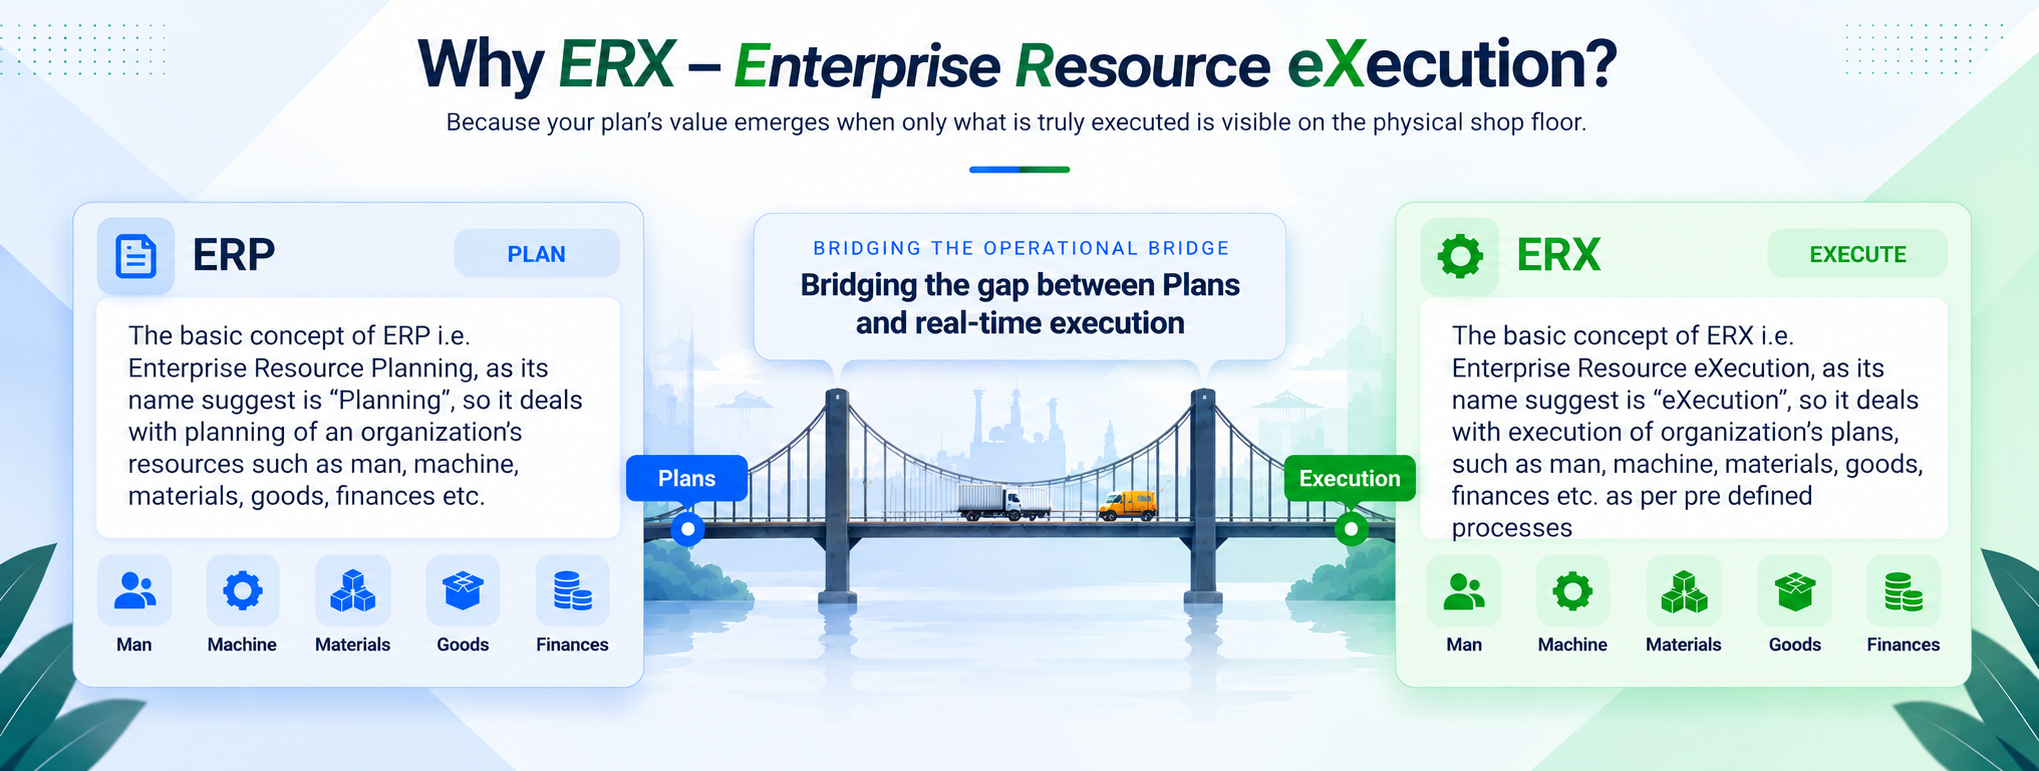
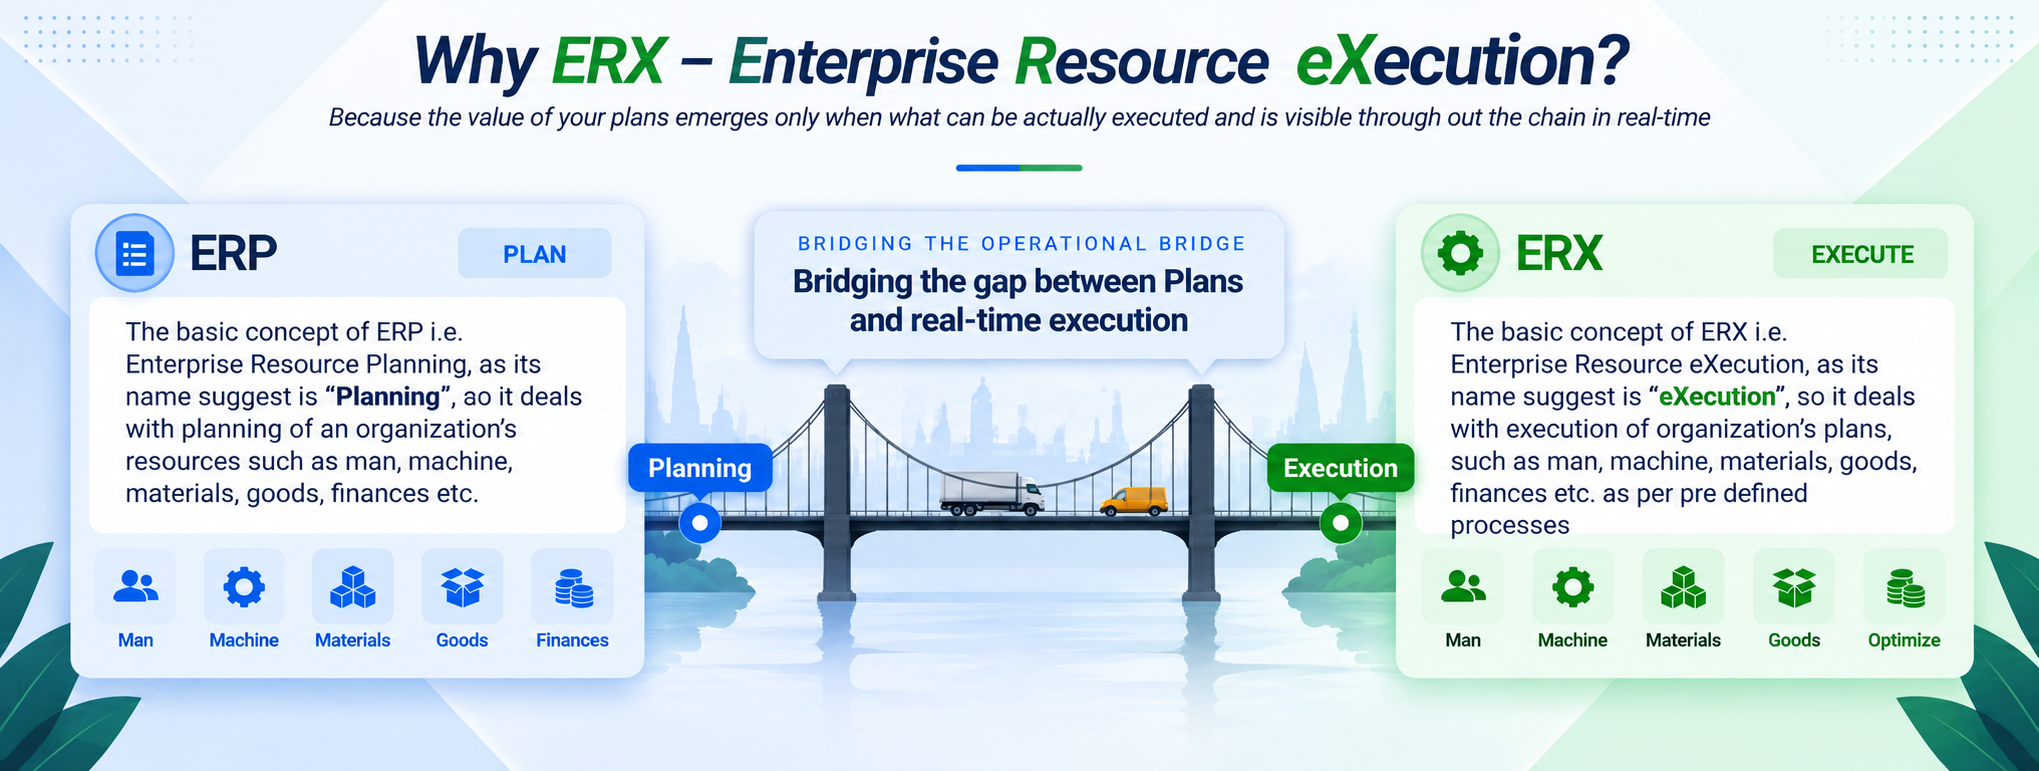
updated

diff --git a/src/components/ModulesArchitecture.tsx b/src/components/ModulesArchitecture.tsx
@@ -194,25 +194,43 @@ export const ModulesArchitecture: React.FC = () => {
                 
                 <svg className="w-full h-full absolute inset-0 pointer-events-none" viewBox="0 0 1240 570">
                   <defs>
-                    {/* Warm ambient background glow centered at top hub */}
-                    <radialGradient id="hubWarmGlow" cx="50%" cy="30%" r="50%">
-                      <stop offset="0%" stopColor="#f97316" stopOpacity={isDark ? "0.3" : "0.32"} />
-                      <stop offset="50%" stopColor="#fb923c" stopOpacity={isDark ? "0.1" : "0.12"} />
-                      <stop offset="100%" stopColor="#ea580c" stopOpacity="0" />
+                    <radialGradient id="hubWarmGlow" cx="50%" cy="15%" r="45%">
+                      <stop offset="0%" stopColor="#6366f1" stopOpacity={isDark ? "0.25" : "0.18"} />
+                      <stop offset="60%" stopColor="#8b5cf6" stopOpacity={isDark ? "0.08" : "0.06"} />
+                      <stop offset="100%" stopColor="#8b5cf6" stopOpacity="0" />
                     </radialGradient>
-
-                    {/* Filter drop-shadow for cards */}
+                    <linearGradient id="stageLabel1" x1="0" y1="0" x2="1" y2="0">
+                      <stop offset="0%" stopColor="#8b5cf6" /><stop offset="100%" stopColor="#6366f1" />
+                    </linearGradient>
+                    <linearGradient id="stageLabel2" x1="0" y1="0" x2="1" y2="0">
+                      <stop offset="0%" stopColor="#3b82f6" /><stop offset="100%" stopColor="#06b6d4" />
+                    </linearGradient>
+                    <linearGradient id="stageLabel3" x1="0" y1="0" x2="1" y2="0">
+                      <stop offset="0%" stopColor="#f97316" /><stop offset="100%" stopColor="#eab308" />
+                    </linearGradient>
+                    <linearGradient id="stageLabel4" x1="0" y1="0" x2="1" y2="0">
+                      <stop offset="0%" stopColor="#ef4444" /><stop offset="100%" stopColor="#8b5cf6" />
+                    </linearGradient>
                     <filter id="cardShadow" x="-10%" y="-10%" width="120%" height="120%">
-                      <feDropShadow dx="0" dy="4" stdDeviation="6" floodOpacity={isDark ? "0.4" : "0.08"} />
+                      <feDropShadow dx="0" dy="3" stdDeviation="5" floodOpacity={isDark ? "0.35" : "0.07"} />
                     </filter>
                   </defs>
 
-                  {/* 1. Ambient Background Halo around Hub */}
-                  <ellipse cx={hubCenter.x} cy={hubCenter.y} rx="340" ry="180" fill="url(#hubWarmGlow)" />
+                  {/* Ambient glow */}
+                  <ellipse cx={hubCenter.x} cy={hubCenter.y} rx="380" ry="160" fill="url(#hubWarmGlow)" />
 
-                  {/* 2. Concentric Radiating Rings around Hub */}
-                  <circle cx={hubCenter.x} cy={hubCenter.y} r="70" fill="none" stroke="#f97316" strokeOpacity="0.35" strokeWidth="1.5" strokeDasharray="4 6" />
-                  <circle cx={hubCenter.x} cy={hubCenter.y} r="120" fill="none" stroke="#fb923c" strokeOpacity="0.2" strokeWidth="1" strokeDasharray="3 7" />
+                  {/* Stage row pills on left */}
+                  {[
+                    { y: 150, label: 'STAGE 1', grad: 'url(#stageLabel1)' },
+                    { y: 255, label: 'STAGE 2', grad: 'url(#stageLabel2)' },
+                    { y: 360, label: 'STAGE 3', grad: 'url(#stageLabel3)' },
+                    { y: 465, label: 'STAGE 4', grad: 'url(#stageLabel4)' },
+                  ].map(s => (
+                    <g key={s.label}>
+                      <rect x="8" y={s.y + 28} width="54" height="16" rx="8" fill={s.grad} opacity="0.85" />
+                      <text x="35" y={s.y + 39} textAnchor="middle" fontSize="7" fontWeight="800" fill="white" letterSpacing="1" fontFamily="sans-serif">{s.label}</text>
+                    </g>
+                  ))}
 
                   {/* 3. Curved Vertical Connector Lines: Top Hub to Stage 1 Nodes */}
                   {filteredTx.filter(n => n.row === 1).map((node) => {
@@ -372,40 +390,45 @@ export const ModulesArchitecture: React.FC = () => {
                   })}
                 </svg>
 
-                {/* 7. Top Central Orchestration Core Hub (Sarvosmi ERX™ RMSC Center) */}
+                {/* 7. Hub — Glassmorphism Pill */}
                 <div
                   style={{
-                    left: `${hubCenter.x - 130}px`,
-                    top: `${hubCenter.y - 42}px`,
-                    width: '260px',
-                    height: '84px'
+                    left: `${hubCenter.x - 150}px`,
+                    top: `${hubCenter.y - 38}px`,
+                    width: '300px',
+                    height: '76px',
+                    background: 'linear-gradient(135deg, #0f172a 0%, #1e1b4b 50%, #0f172a 100%)',
+                    boxShadow: '0 0 0 1.5px rgba(99,102,241,0.6), 0 0 32px rgba(99,102,241,0.25), 0 8px 32px rgba(0,0,0,0.5)'
                   }}
-                  className="absolute z-10 rounded-2xl bg-gradient-to-r from-slate-950 via-slate-900 to-black text-white px-4 py-2.5 shadow-2xl border-2 border-amber-500/70 flex items-center justify-between cursor-pointer group hover:scale-[1.02] transition-transform"
+                  className="absolute z-10 rounded-2xl text-white px-5 py-3 flex items-center justify-between cursor-pointer group hover:scale-[1.03] transition-all duration-300"
                   onClick={() => handleSelectNode('tx-demand')}
                 >
-                  <div className="absolute inset-0 rounded-2xl border border-amber-400/30 animate-ping pointer-events-none opacity-30" />
+                  {/* Animated border glow */}
+                  <div className="absolute inset-0 rounded-2xl" style={{ background: 'linear-gradient(135deg, rgba(99,102,241,0.3), rgba(139,92,246,0.1), rgba(99,102,241,0.3))', animation: 'pulse 3s ease-in-out infinite' }} />
                   
-                  <div className="flex flex-col items-start">
-                    <span className="text-[10px] font-black tracking-widest text-red-500 uppercase leading-none">Sarvosmi</span>
-                    <span className="text-base font-black text-emerald-400 tracking-tight leading-none mt-1">ERX™ RMSC</span>
-                    <span className="text-[9px] font-medium text-amber-200/90 leading-tight mt-1">Real-Time Orchestration Core</span>
+                  <div className="flex flex-col items-start relative z-10">
+                    <div className="flex items-center gap-1.5 mb-0.5">
+                      <span className="w-1.5 h-1.5 rounded-full bg-red-500" />
+                      <span className="text-[8px] font-black tracking-[0.2em] text-red-400 uppercase">Sarvosmi</span>
+                    </div>
+                    <span className="text-[17px] font-black tracking-tight leading-none" style={{ background: 'linear-gradient(90deg, #34d399, #22d3ee)', WebkitBackgroundClip: 'text', WebkitTextFillColor: 'transparent' }}>ERX™ RMSC</span>
+                    <span className="text-[8px] font-medium text-indigo-300/80 leading-tight mt-0.5 tracking-wide">Real-Time Orchestration Core</span>
                   </div>
 
-                  <div className="flex flex-col items-end gap-1.5">
-                    <div className="flex items-center gap-1.5">
-                      <span className="w-2 h-2 rounded-full bg-emerald-400 animate-pulse" />
-                      <span className="text-[9px] font-bold text-emerald-300 uppercase tracking-wider">Active</span>
+                  <div className="flex flex-col items-end gap-2 relative z-10">
+                    <div className="flex items-center gap-1.5 bg-emerald-500/15 border border-emerald-500/30 rounded-full px-2 py-0.5">
+                      <span className="w-1.5 h-1.5 rounded-full bg-emerald-400 animate-pulse" />
+                      <span className="text-[8px] font-black text-emerald-300 uppercase tracking-wider">Live</span>
                     </div>
                     <div className="flex items-center gap-1">
-                      <span className="w-1.5 h-1.5 rounded-full bg-amber-400" />
-                      <span className="w-1.5 h-1.5 rounded-full bg-emerald-400" />
-                      <span className="w-1.5 h-1.5 rounded-full bg-cyan-400" />
-                      <span className="w-1.5 h-1.5 rounded-full bg-blue-400" />
+                      {['#6366f1','#10b981','#06b6d4','#f59e0b'].map(c => (
+                        <span key={c} className="w-2 h-2 rounded-full" style={{ backgroundColor: c, boxShadow: `0 0 4px ${c}` }} />
+                      ))}
                     </div>
                   </div>
                 </div>
 
-                {/* 8. HTML Transactional Nodes In Vertical Stages */}
+                {/* 8. HTML Transactional Nodes — Redesigned */}
                 {filteredTx.map((node) => {
                   const isSelected = selectedModule.id === node.id;
                   const isWide = node.row >= 3;
@@ -421,60 +444,85 @@ export const ModulesArchitecture: React.FC = () => {
                       onMouseLeave={() => setHoveredNodeId(null)}
                       onClick={() => handleSelectNode(node.id)}
                     >
-                      {/* Flip wrapper */}
-                      <div
-                        style={{
-                          position: 'relative',
-                          width: '100%',
-                          height: '86px',
-                          transformStyle: 'preserve-3d',
-                          transition: 'transform 0.52s cubic-bezier(0.4,0,0.2,1)',
-                          transform: isFlipped ? 'rotateY(180deg)' : 'rotateY(0deg)',
-                        }}
-                      >
+                      <div style={{
+                        position: 'relative', width: '100%', height: '86px',
+                        transformStyle: 'preserve-3d',
+                        transition: 'transform 0.52s cubic-bezier(0.4,0,0.2,1)',
+                        transform: isFlipped ? 'rotateY(180deg)' : 'rotateY(0deg)',
+                      }}>
+
                         {/* ── FRONT FACE ── */}
                         <div
                           style={{ backfaceVisibility: 'hidden', WebkitBackfaceVisibility: 'hidden' }}
-                          className={`absolute inset-0 p-2.5 rounded-xl border overflow-hidden ${
-                            isSelected
-                              ? isDark ? 'ring-2 ring-blue-500 bg-slate-800 border-blue-400/80 shadow-lg' : 'ring-2 ring-blue-500 bg-white border-blue-400 shadow-lg'
-                              : isDark ? 'bg-slate-900/95 border-slate-700/80' : 'bg-white border-slate-200/90 shadow-[0_2px_8px_rgba(0,0,0,0.05)]'
+                          className={`absolute inset-0 rounded-xl overflow-hidden ${
+                            isSelected ? 'ring-2 shadow-lg' : ''
                           }`}
+                          style2={isSelected ? { ringColor: node.color } : {}}
                         >
-                          <div className="absolute top-0 left-0 right-0 h-0.5" style={{ backgroundColor: node.color }} />
-                          <div className="flex items-center gap-2">
-                            <div
-                              className="w-7 h-7 rounded-lg flex items-center justify-center shrink-0"
-                              style={{ backgroundColor: isDark ? `${node.color}22` : `${node.color}15`, color: node.color, border: `1.5px solid ${node.color}${isDark ? '40' : '30'}` }}
-                            >
-                              {renderIcon(node.icon, 'w-3.5 h-3.5')}
+                          {/* Card bg with subtle color tint */}
+                          <div className="absolute inset-0 rounded-xl" style={{
+                            background: isDark
+                              ? `linear-gradient(135deg, #0f172a 0%, ${node.color}08 100%)`
+                              : `linear-gradient(135deg, #ffffff 0%, ${node.color}06 100%)`,
+                            border: isSelected
+                              ? `1.5px solid ${node.color}60`
+                              : isDark ? '1px solid rgba(71,85,105,0.7)' : '1px solid rgba(226,232,240,0.9)',
+                            boxShadow: isSelected
+                              ? `0 0 0 2px ${node.color}40, 0 4px 16px ${node.color}20`
+                              : isDark ? '0 2px 8px rgba(0,0,0,0.3)' : '0 2px 8px rgba(15,23,42,0.05)'
+                          }} />
+
+                          {/* Left colored accent bar */}
+                          <div className="absolute left-0 top-3 bottom-3 w-[3px] rounded-full" style={{ backgroundColor: node.color, boxShadow: `0 0 6px ${node.color}60` }} />
+
+                          <div className="relative z-10 px-3 pt-2.5 pb-0">
+                            <div className="flex items-center gap-2">
+                              {/* Icon with gradient bg */}
+                              <div className="w-7 h-7 rounded-lg flex items-center justify-center shrink-0" style={{
+                                background: `linear-gradient(135deg, ${node.color}20, ${node.color}10)`,
+                                color: node.color,
+                                border: `1px solid ${node.color}30`
+                              }}>
+                                {renderIcon(node.icon, 'w-3.5 h-3.5')}
+                              </div>
+                              <div className="min-w-0 flex-1">
+                                <p className={`text-[11px] font-bold leading-tight truncate ${isDark ? 'text-white' : 'text-slate-800'}`}>{node.title}</p>
+                                <p className={`text-[9px] leading-normal mt-0.5 font-medium truncate ${isDark ? 'text-slate-400' : 'text-slate-500'}`}>{node.subText}</p>
+                              </div>
+                              {node.hasRedDot && (
+                                <span className="w-1.5 h-1.5 rounded-full bg-red-500 shrink-0 animate-pulse" />
+                              )}
                             </div>
-                            <div className="min-w-0 flex-1">
-                              <p className={`text-[11px] font-bold truncate leading-tight ${isDark ? 'text-white' : 'text-slate-900'}`}>{node.title}</p>
-                              <p className={`text-[9.5px] truncate leading-normal mt-0.5 font-medium ${isDark ? 'text-slate-400' : 'text-slate-500'}`}>{node.subText}</p>
+                            <div className="mt-2 pt-1.5 flex items-center justify-between" style={{ borderTop: isDark ? '1px solid rgba(71,85,105,0.5)' : '1px solid rgba(226,232,240,0.8)' }}>
+                              <span className="text-[7.5px] font-black tracking-[0.12em] uppercase" style={{ color: node.color }}>Phase 1 · Trans.</span>
+                              <ArrowUpRight className="w-2.5 h-2.5 shrink-0" style={{ color: node.color, opacity: 0.6 }} />
                             </div>
-                          </div>
-                          <div className={`mt-2 pt-1.5 border-t flex items-center justify-between ${isDark ? 'border-slate-800' : 'border-slate-100'}`}>
-                            <span className={`text-[8px] font-semibold tracking-wide uppercase ${isDark ? 'text-blue-400' : 'text-blue-700'}`}>Phase 1 Trans.</span>
-                            <ArrowUpRight className={`w-2.5 h-2.5 ${isDark ? 'text-slate-500' : 'text-slate-400'} shrink-0`} />
                           </div>
                         </div>
 
                         {/* ── BACK FACE ── */}
                         <div
-                          style={{ backfaceVisibility: 'hidden', WebkitBackfaceVisibility: 'hidden', transform: 'rotateY(180deg)' }}
-                          className="absolute inset-0 p-2.5 rounded-xl border overflow-hidden bg-slate-900 border-slate-700"
+                          style={{
+                            backfaceVisibility: 'hidden', WebkitBackfaceVisibility: 'hidden',
+                            transform: 'rotateY(180deg)',
+                            background: `linear-gradient(135deg, #0f172a 0%, ${node.color}18 100%)`,
+                            border: `1.5px solid ${node.color}40`,
+                            boxShadow: `0 0 20px ${node.color}20`,
+                          }}
+                          className="absolute inset-0 rounded-xl overflow-hidden"
                         >
-                          <div className="absolute top-0 left-0 right-0 h-0.5" style={{ backgroundColor: node.color }} />
-                          <p className="text-[7.5px] font-black tracking-widest uppercase text-slate-500 mb-1">ERP Action</p>
-                          <p className="text-[10px] font-bold text-white leading-snug" style={{ display: '-webkit-box', WebkitLineClamp: 2, WebkitBoxOrient: 'vertical', overflow: 'hidden' }}>
-                            {node.erpAction}
-                          </p>
-                          <div className="mt-2 pt-1.5 border-t border-slate-800 flex items-center gap-1.5">
-                            <span className="w-1.5 h-1.5 rounded-full animate-pulse" style={{ backgroundColor: node.color }} />
-                            <span className="text-[8px] font-semibold uppercase tracking-wider" style={{ color: node.color }}>
-                              {node.hasRedDot ? 'Priority' : 'Standard'}
-                            </span>
+                          <div className="absolute left-0 top-3 bottom-3 w-[3px] rounded-full" style={{ backgroundColor: node.color, boxShadow: `0 0 8px ${node.color}` }} />
+                          <div className="px-3 pt-2.5">
+                            <p className="text-[7px] font-black tracking-[0.18em] uppercase mb-1" style={{ color: `${node.color}90` }}>ERP Action</p>
+                            <p className="text-[10.5px] font-bold text-white leading-snug" style={{ display: '-webkit-box', WebkitLineClamp: 2, WebkitBoxOrient: 'vertical', overflow: 'hidden' }}>
+                              {node.erpAction}
+                            </p>
+                            <div className="mt-2 pt-1.5 flex items-center gap-1.5" style={{ borderTop: `1px solid ${node.color}25` }}>
+                              <span className="w-1.5 h-1.5 rounded-full animate-pulse" style={{ backgroundColor: node.color, boxShadow: `0 0 4px ${node.color}` }} />
+                              <span className="text-[7.5px] font-black uppercase tracking-wider" style={{ color: node.color }}>
+                                {node.hasRedDot ? '🔴 Priority Module' : 'Standard Module'}
+                              </span>
+                            </div>
                           </div>
                         </div>
                       </div>

diff --git a/src/components/OverviewSection.tsx b/src/components/OverviewSection.tsx
@@ -1,5 +1,6 @@
 import React from 'react';
 import { Sparkles } from 'lucide-react';
+import sction1Img from '../asset/sction1.png';
 import rmscImg from '../asset/rmsc.png';
 
 export const OverviewSection: React.FC = () => {
@@ -9,16 +10,26 @@ export const OverviewSection: React.FC = () => {
       <div className="w-full max-w-7xl mx-auto px-4 sm:px-8 lg:px-12 xl:px-16 mb-6">
         <div className="inline-flex items-center gap-2 px-3.5 py-1.5 rounded-full bg-emerald-500/10 border border-emerald-500/20 text-emerald-700 dark:text-emerald-400 text-[10.5px] font-black uppercase tracking-widest mb-2.5 shadow-xs">
           <Sparkles className="w-3.5 h-3.5 text-emerald-600 dark:text-emerald-400 animate-pulse" />
-          <span>RMSC VITALITY ARCHITECTURE &amp; ECOSYSTEM OVERVIEW</span>
+          <span>WHY RMSC · VITALITY ARCHITECTURE &amp; ECOSYSTEM OVERVIEW</span>
         </div>
 
         <h2 className="text-2xl sm:text-3xl lg:text-4xl font-black font-grotesk text-slate-900 dark:text-white tracking-tight leading-tight">
-          Raw Material Supply Chain (RMSC) Architecture
+          Why Raw Material Supply Chain (RMSC) Matters
         </h2>
 
         <p className="text-xs sm:text-sm text-slate-600 dark:text-slate-400 font-medium mt-2.5 max-w-3xl leading-relaxed">
-          Just as arteries deliver oxygenated blood and veins manage continuous flow and feedback in the human body, RMSC powers uninterrupted material velocity, buffer stability, and organizational vitality across the enterprise—ensuring peak performance even under the most trying situations.
+          When sales, manufacturing, and shipping teams are ready, overall organizational success depends squarely on the Raw Material Supply Chain. Like vital arteries and veins, RMSC powers uninterrupted material velocity, buffer stability, and organizational vitality across the enterprise.
         </p>
+      </div>
+
+      {/* ── Section 1: Why Raw Material Chain Matters ── */}
+      <div className="w-full mb-8 overflow-hidden">
+        <img
+          src={sction1Img}
+          alt="Why Raw Material Chain Matters - Sales Team, Manufacturing, Shipping Department and RMSC Performance"
+          className="w-full h-auto block object-contain"
+          loading="eager"
+        />
       </div>
 
       {/* ── High-Resolution RMSC Infographic ── */}
@@ -27,9 +38,10 @@ export const OverviewSection: React.FC = () => {
           src={rmscImg}
           alt="Raw Material Supply Chain is to an organization just as Arteries and Veins are to human body"
           className="w-full h-auto block object-contain"
-          loading="eager"
+          loading="lazy"
         />
       </div>
     </section>
   );
 };
+

diff --git a/src/components/WhyErx.tsx b/src/components/WhyErx.tsx
@@ -94,12 +94,12 @@ export const WhyErx: React.FC = () => {
               className="h-5 sm:h-6 w-auto object-contain inline-block mix-blend-multiply dark:bg-white dark:px-1.5 dark:py-0.5 dark:rounded-md shadow-xs"
             />
             <span className="text-sm sm:text-base font-black text-slate-900 dark:text-white tracking-tight">
-              Makes a Difference?
+              Makes a Difference:
             </span>
           </div>
 
           <p className="text-[10px] text-slate-500 dark:text-slate-400 mt-1 max-w-xl font-medium">
-            Bridging ERP planning to physical shop-floor reality with sub-second telemetry, automated deviation alerts and paperless execution.
+            Bridging planning to physical shop floor reality with instant telemetry, automated deviation notifications and paperless execution
           </p>
         </div>
 
